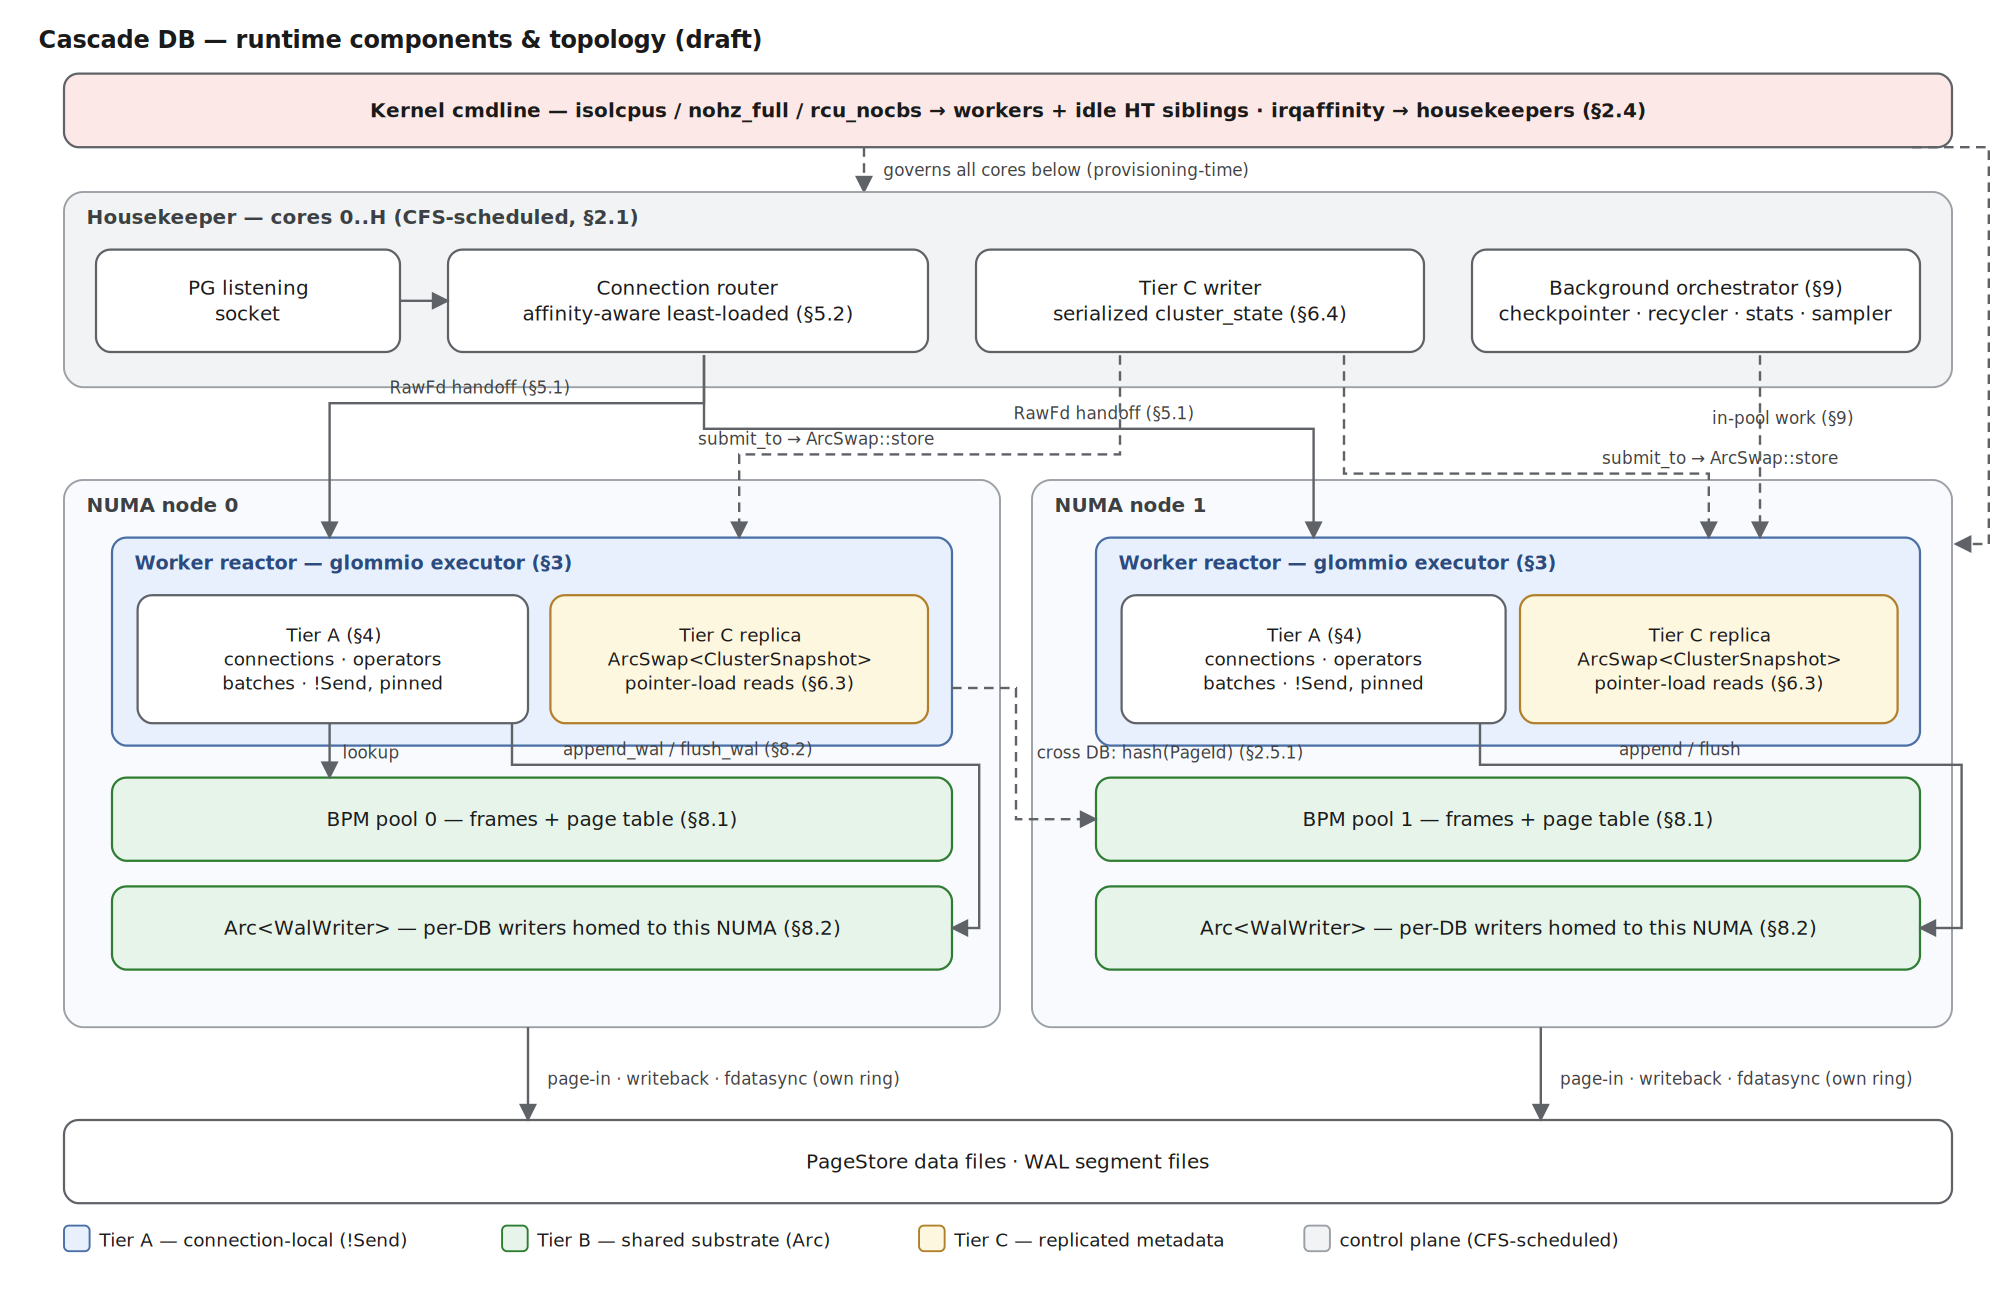
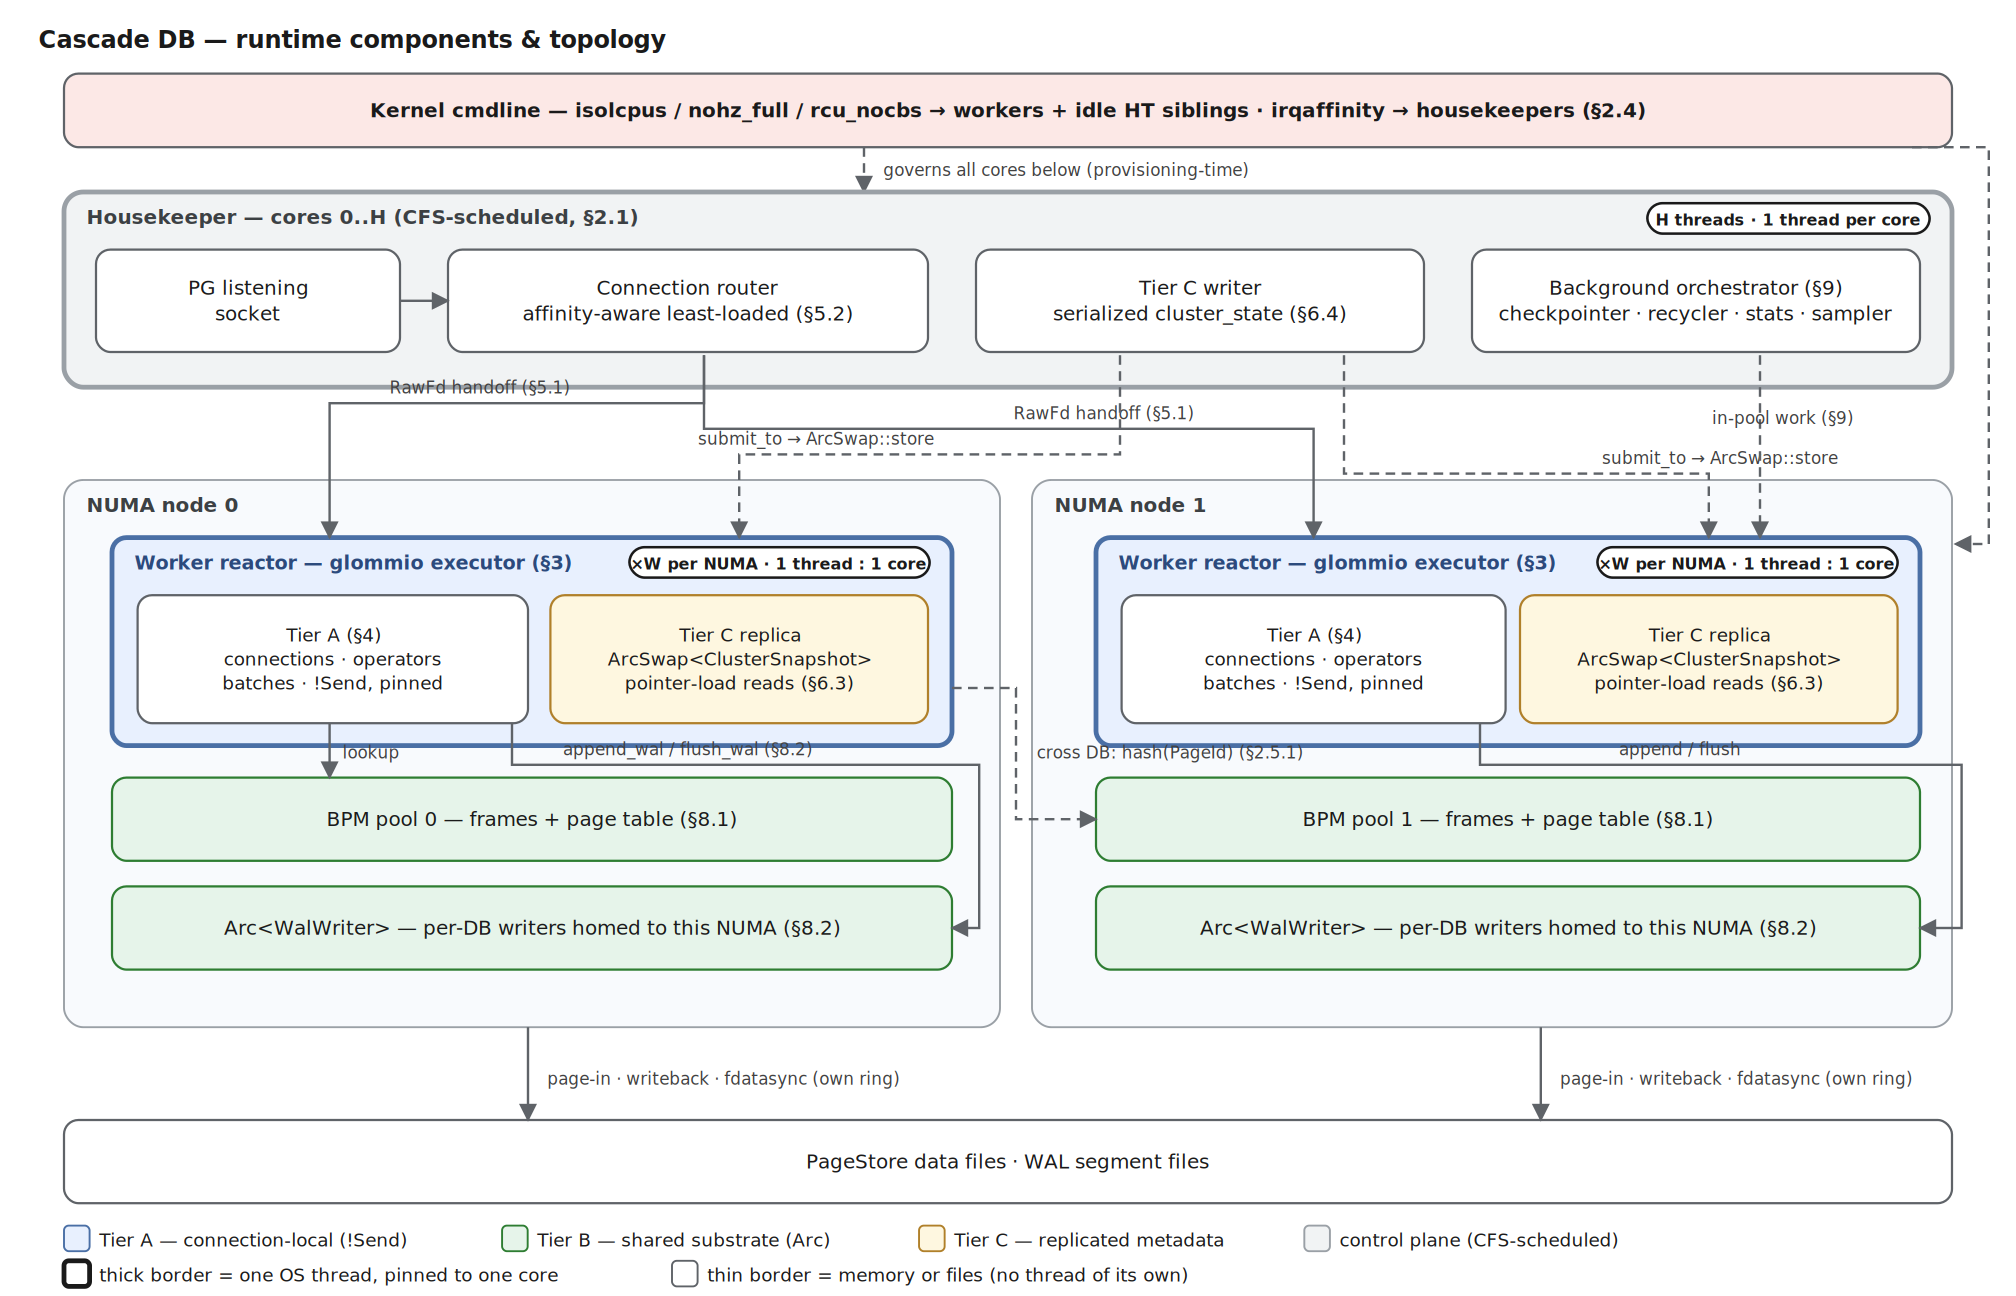
Encode thread-vs-memory distinction in runtime diagrams
Thick borders mark the only real threads (housekeeper band, worker
reactor boxes); pills state thread counts ("H threads · 1 thread per
core", "×W per NUMA · 1 thread : 1 core"); second legend row explains
the border encoding. Mermaid twin synced via style stroke-width + a
Notes bullet. Also converts PNGs from current SVGs (they had gone
stale during an earlier regeneration).

Task: figures follow-up · FRs: n/a (diagram doc) · Code review: clean · Test review: n/a

diff --git a/docs/runtime-architecture-diagrams.md b/docs/runtime-architecture-diagrams.md
@@ -51,6 +51,10 @@ flowchart TB
 
     FILES["PageStore data files · WAL segment files"]
 
+    style HK stroke-width:3px
+    style W0 stroke-width:3px
+    style W1 stroke-width:3px
+
     CMD -.->|"constrains"| HK
     CMD -.->|"isolates"| N0
     CMD -.->|"isolates"| N1
@@ -147,6 +151,12 @@ sequenceDiagram
 
 ## Notes
 
+- **Border weight encodes what is a thread** (Figure A): a **thick** border marks the only
+  real threads — the housekeeper band (H threads, one per core) and each worker-reactor box
+  (one pinned thread; the box stands for ×W reactors per NUMA). Thin-bordered boxes —
+  Tier A, Tier C replica, BPM pools, WAL writers, files — are memory or data owned or shared
+  by those threads, not threads themselves. The Mermaid source mirrors this with
+  `style … stroke-width:3px` on the same three subgraphs.
 - `Arc<WalWriter>` and `ArcSwap<ClusterSnapshot>` are HTML-escaped (`&lt;`/`&gt;`) inside
   Mermaid **flowchart** labels because Mermaid strips unknown HTML tags; the sequence
   diagrams sidestep this with participant aliases (`WalWriter (Arc, per DB)`).
